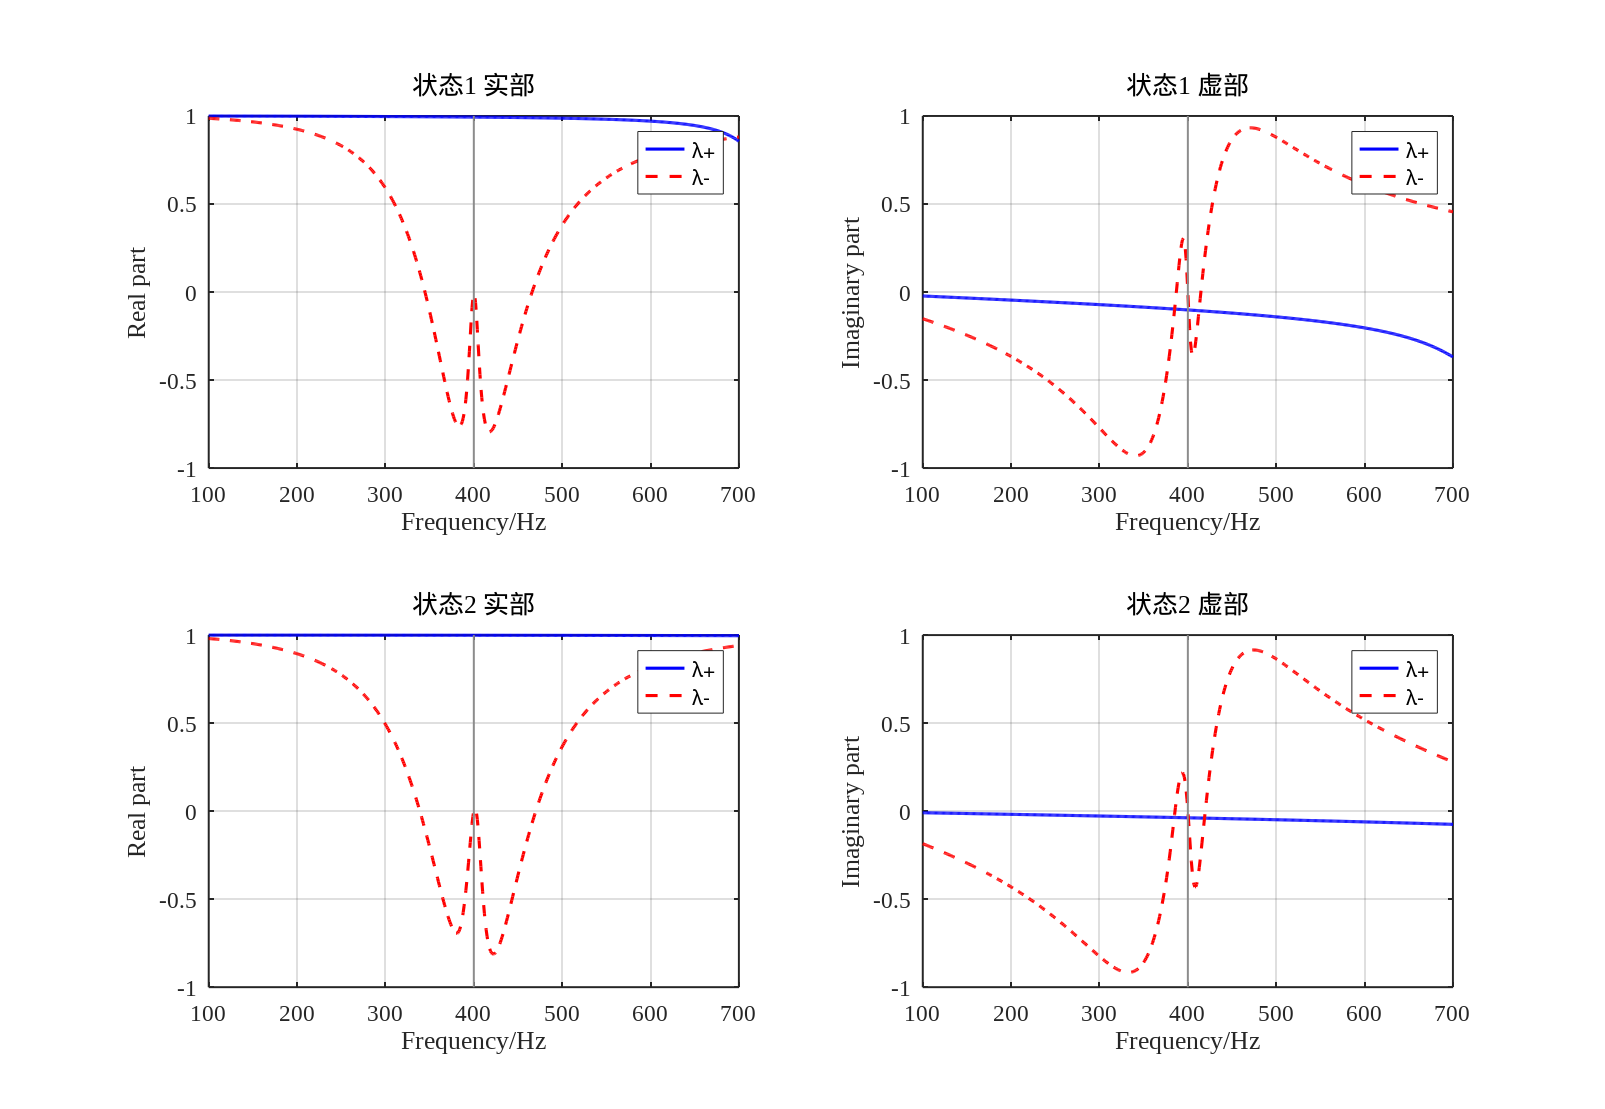
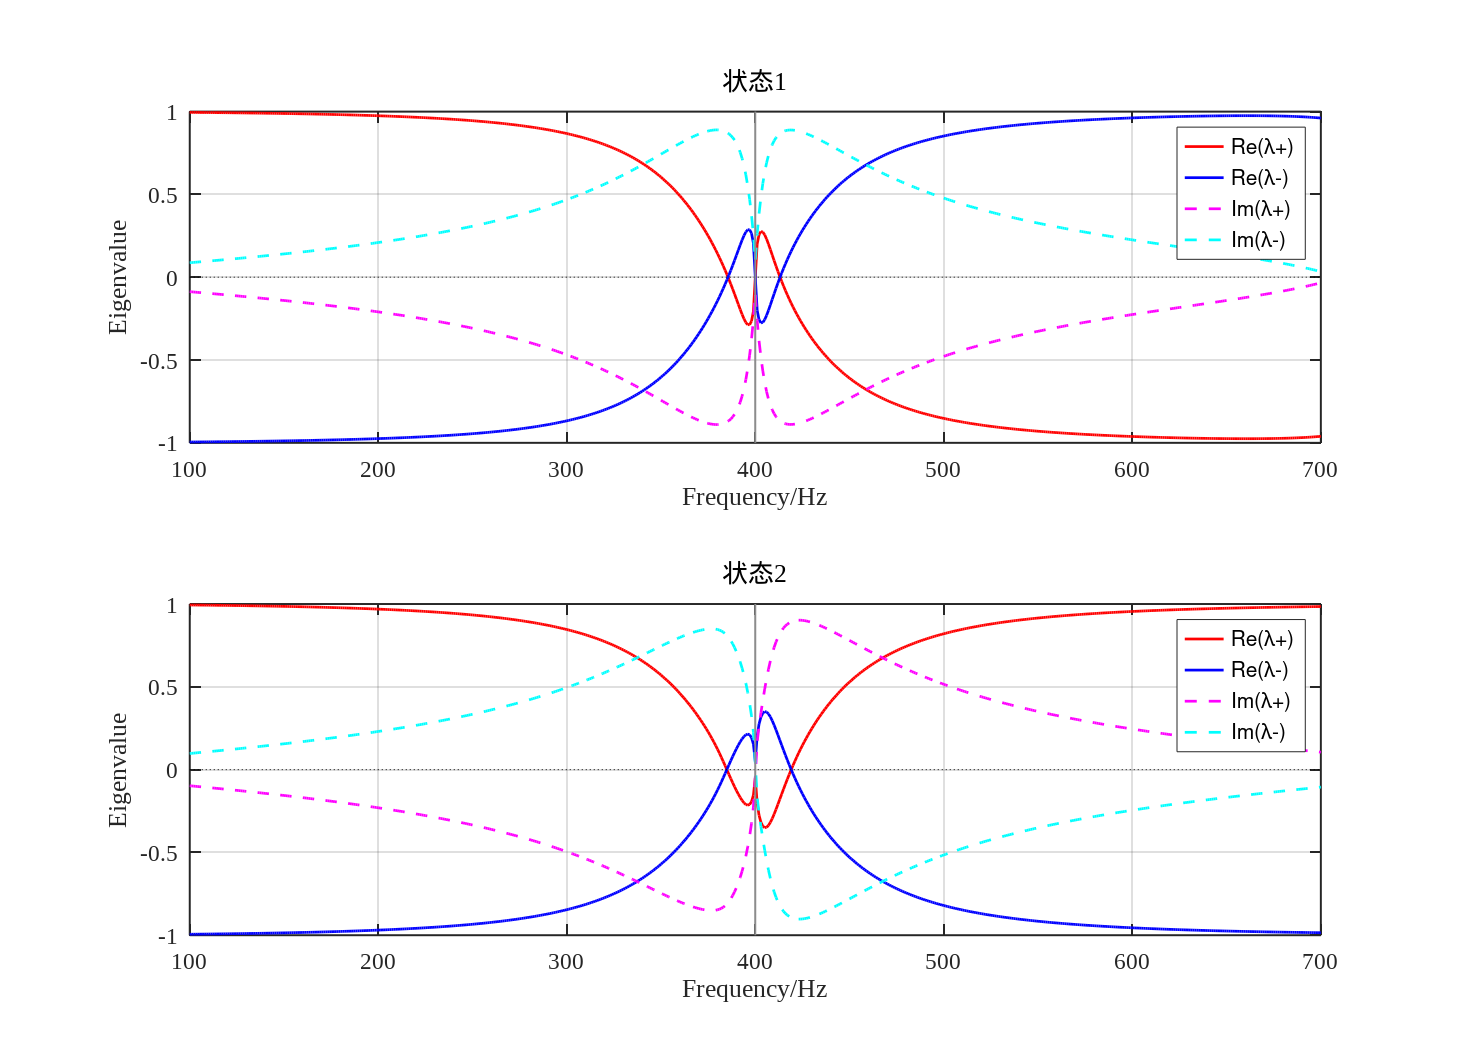
Use the single-cell scattering eigenvalues for the parallel cells.
lambda = tau ± sqrt(rf*rb), so the two branches meet when one reflection amplitude vanishes.

diff --git a/acoustic_nn/ep_reversal_result.m b/acoustic_nn/ep_reversal_result.m
@@ -265,11 +265,12 @@ end
 print(gcf, fullfile(outDir, 'ep_reversal_result.png'), '-dpng', '-r140');
 
 %% 9. 并联后散射矩阵的两个特征值
-% 四单元已经在上面合成一条双端口通道。散射矩阵为
-%   S = [ rf , tau ;
-%         tau, rb  ]
-% 两个特征值
-%   lambda± = (rf+rb)/2 ± sqrt( ((rf-rb)/2)^2 + tau^2 )
+% 与单胞同一写法。四单元并联后仍是一条双端口，
+%   S = [ tau , rb ;
+%         rf  , tau ]
+%   λ+ = tau + sqrt(rf*rb)
+%   λ- = tau - sqrt(rf*rb)
+% 一边反射振幅接近 0 时，sqrt(rf*rb) 接近 0，两条特征值靠在一起。
 % 开方沿频率连续跟踪，避免主值开方把 λ+ 和 λ- 对调。
 
 lamP = complex(zeros(2,Nf));
@@ -278,10 +279,9 @@ for state = 1:2
     rf = rfC(state,:);
     rb = rbC(state,:);
     tau = tauC(state,:);
-    half = (rf+rb)/2;
-    disc = sqrt(((rf-rb)/2).^2 + tau.^2);
-    plus = half+disc;
-    minus = half-disc;
+    delta = sqrt(rf.*rb);
+    plus = tau+delta;
+    minus = tau-delta;
     for ii = 2:Nf
         if abs(plus(ii)-plus(ii-1))+abs(minus(ii)-minus(ii-1)) ...
                 > abs(plus(ii)-minus(ii-1))+abs(minus(ii)-plus(ii-1))
@@ -300,34 +300,28 @@ for state = 1:2
     fprintf('状态%d  400 Hz\n', state);
     fprintf('  Re(λ+) % .6f   Re(λ-) % .6f\n', real(lamP(state,i400)), real(lamM(state,i400)));
     fprintf('  Im(λ+) % .6f   Im(λ-) % .6f\n', imag(lamP(state,i400)), imag(lamM(state,i400)));
+    fprintf('  |λ+-λ-| %.6e\n', abs(lamP(state,i400)-lamM(state,i400)));
 end
 
-eigTitle = {'状态1 实部', '状态1 虚部', '状态2 实部', '状态2 虚部'};
-figure('Color','w','Position',[60 60 1100 760]);
-for p = 1:4
-    subplot(2,2,p);
-    st = ceil(p/2);
+eigTitle = {'状态1', '状态2'};
+figure('Color','w','Position',[80 80 1000 720]);
+for st = 1:2
+    subplot(2,1,st);
     hold on;
-    if mod(p,2)==1
-        yP = real(lamP(st,:));
-        yM = real(lamM(st,:));
-        ylab = 'Real part';
-    else
-        yP = imag(lamP(st,:));
-        yM = imag(lamM(st,:));
-        ylab = 'Imaginary part';
-    end
-    hP = plot(f, yP, 'b-', 'LineWidth', 1.6);
-    hM = plot(f, yM, 'r--', 'LineWidth', 1.6);
+    h1 = plot(f, real(lamP(st,:)), 'r-', 'LineWidth', 1.4);
+    h2 = plot(f, real(lamM(st,:)), 'b-', 'LineWidth', 1.4);
+    h3 = plot(f, imag(lamP(st,:)), 'm--', 'LineWidth', 1.4);
+    h4 = plot(f, imag(lamM(st,:)), 'c--', 'LineWidth', 1.4);
+    plot([100 700], [0 0], 'k:', 'HandleVisibility', 'off');
     yl = ylim;
     plot([400 400], yl, 'Color', [0.55 0.55 0.55], 'LineWidth', 1.0, 'HandleVisibility', 'off');
     ylim(yl);
     grid on; box on;
     xlim([100 700]);
     xticks(100:100:700);
-    xlabel('Frequency/Hz'); ylabel(ylab);
-    title(eigTitle{p}, 'FontWeight', 'normal');
-    legend([hP, hM], {'\lambda+', '\lambda-'}, 'Location', 'best');
+    xlabel('Frequency/Hz'); ylabel('Eigenvalue');
+    title(eigTitle{st}, 'FontWeight', 'normal');
+    legend([h1 h2 h3 h4], {'Re(\lambda+)','Re(\lambda-)','Im(\lambda+)','Im(\lambda-)'}, 'Location', 'best');
     set(gca, 'FontName', 'Times New Roman', 'FontSize', 12, 'LineWidth', 1.0, 'TickDir', 'in');
 end
 print(gcf, fullfile(outDir, 'ep_reversal_eigenvalues.png'), '-dpng', '-r140');
